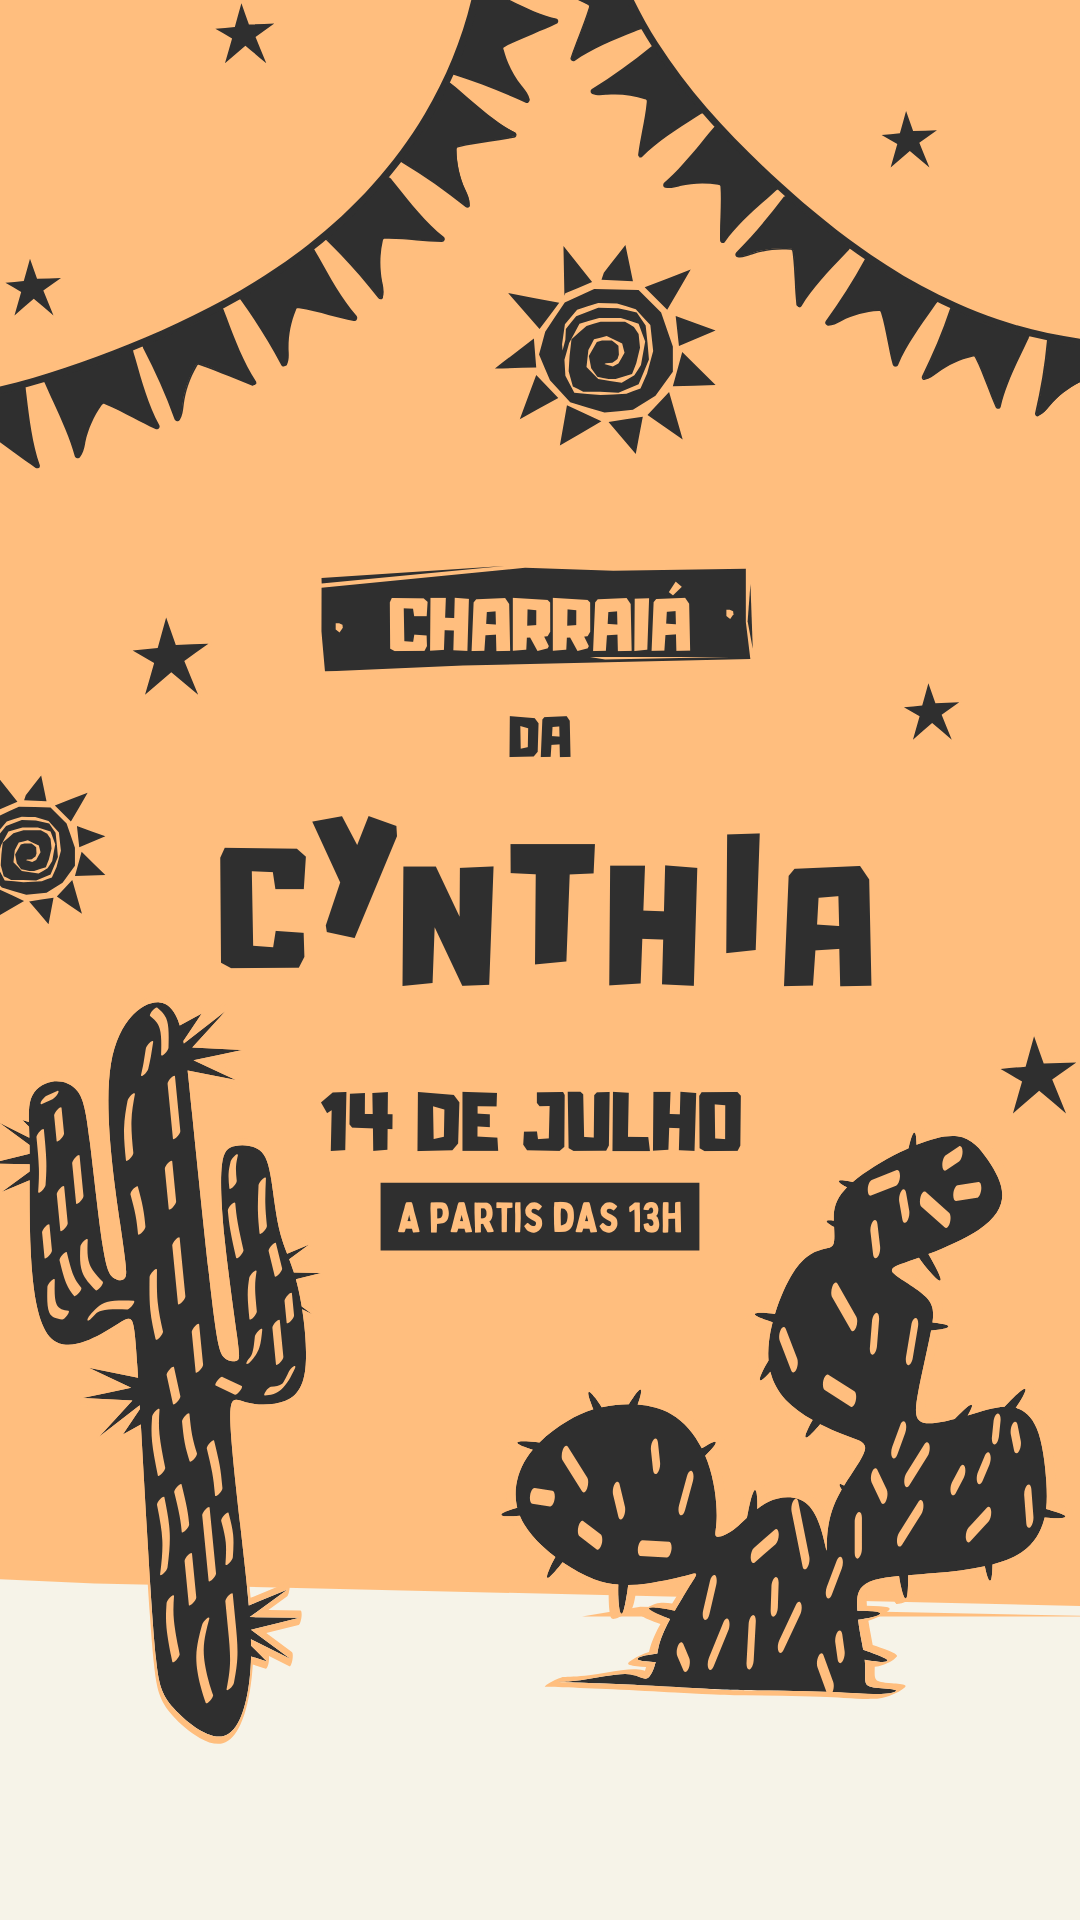
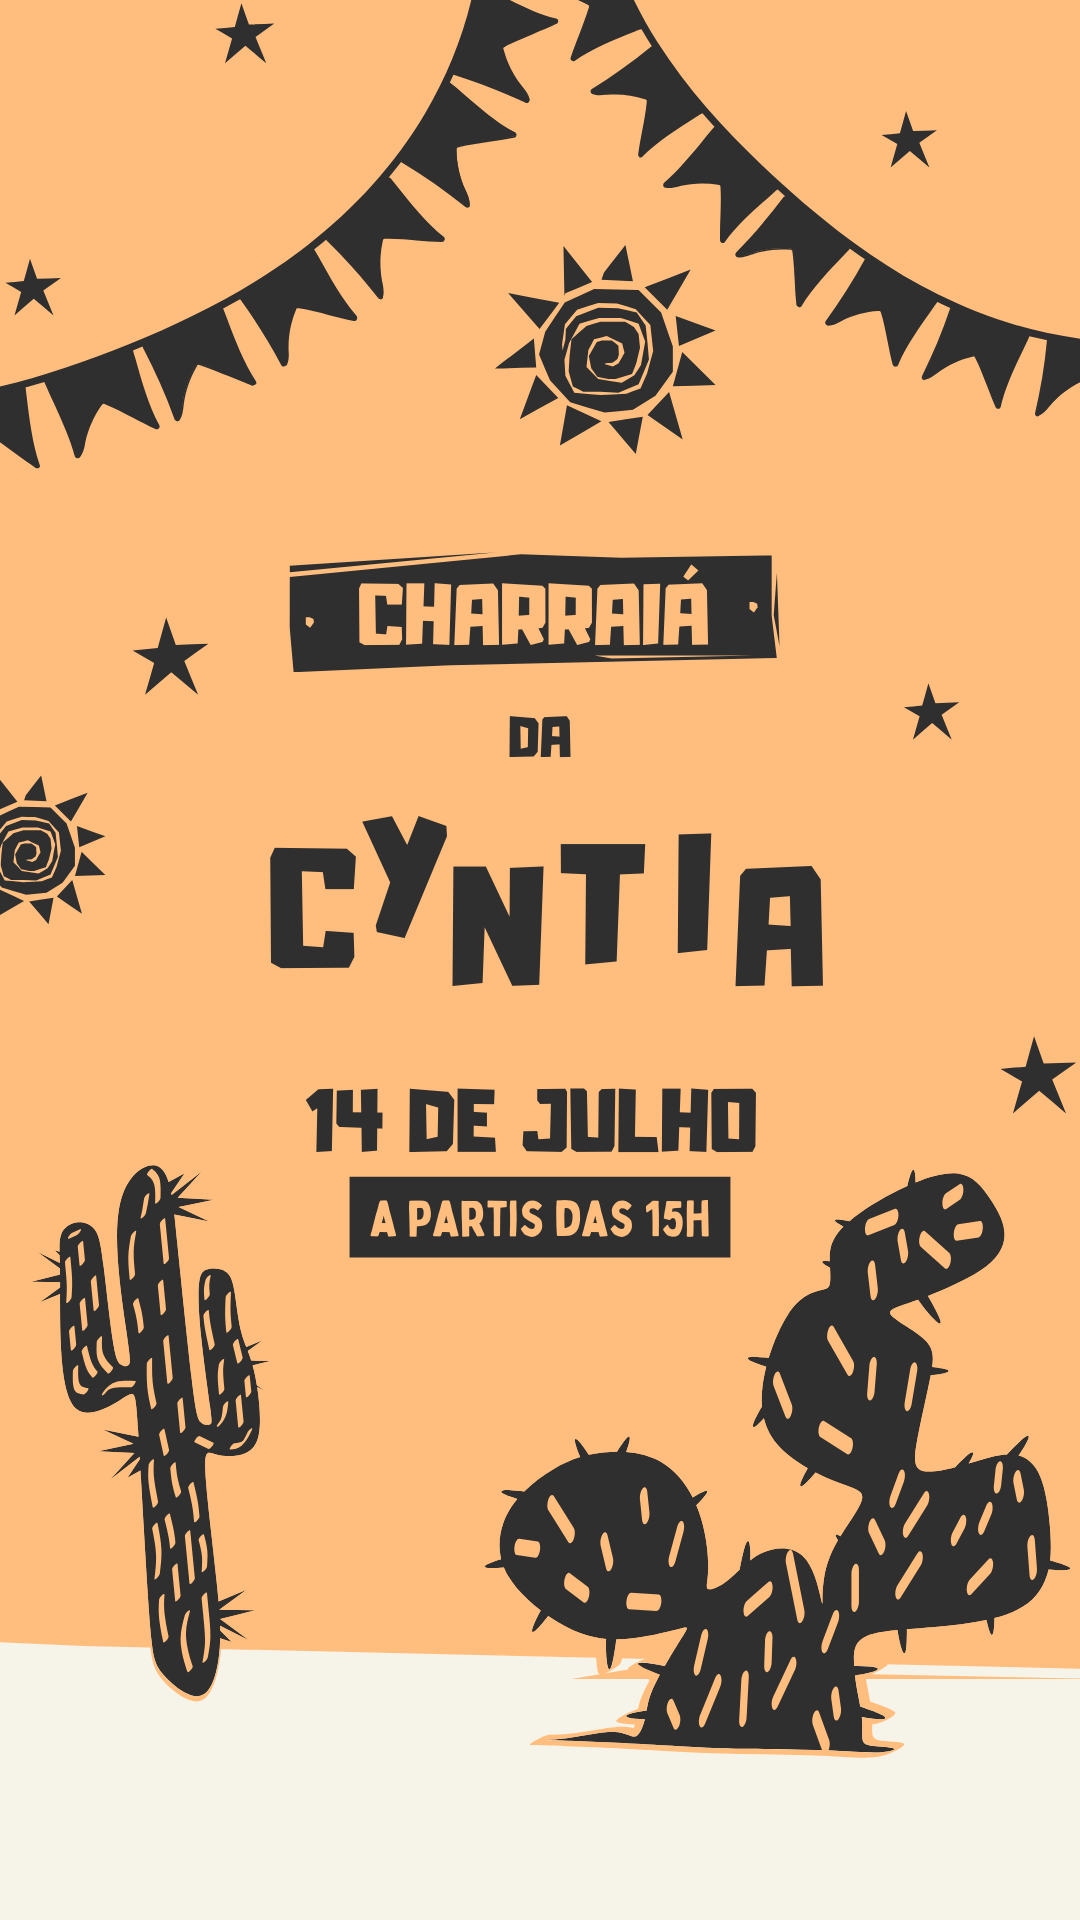
ajustes

diff --git a/index.html b/index.html
@@ -34,7 +34,7 @@
 
             Mal podemos esperar para compartilhar este momento único com todos vocês! <br><br>
 
-            Com amor, Cynthia e Murilo
+            Com amor, Cyntia e Murilo
         </p>
     </div>
 
@@ -44,7 +44,8 @@
 
     <div class="containercard">
         <h2>Presentes</h2>
-        <p class="intro">Ao escolher o item peço por gentileza que informe o mesmo na mensagem de confirmação Ex: O item escolhido foi: Tábua de corte</p>
+        <p class="intro">Ao escolher o item peço por gentileza que informe o mesmo na mensagem de confirmação Ex: O item
+            escolhido foi: Tábua de corte</p>
         <div class="card-list">
 
 
@@ -92,16 +93,6 @@
                 <img src="IMG/WhatsApp Image 2024-05-10 at 19.28.56.jpeg" alt="Imagem 2" class="card-img">
                 <div class="card-content">
                     <h2 class="card-title">Utensílios de silicone</h2>
-                    <p class="card-description"></p>
-                    <a
-                        href="https://api.whatsapp.com/send?phone=5571986284086&text=Ol%C3%A1,%20Obrigada%20pelo%20convite%20para%20participar%20desse%20momento%20t%C3%A3o%20especial%20na%20vida%20de%20voc%C3%AAs!%20Estarei%20presente,%20e%20o%20item%20escolhido%20por%20mim%20foi:%20">
-                        <button class="card-button">PRESENTEAR</button></a>
-                </div>
-            </div>
-            <div class="card">
-                <img src="IMG/WhatsApp Image 2024-05-10 at 19.29.11.jpeg" alt="Imagem 2" class="card-img">
-                <div class="card-content">
-                    <h2 class="card-title">Conjunto de facas tramontina</h2>
                     <p class="card-description"></p>
                     <a
                         href="https://api.whatsapp.com/send?phone=5571986284086&text=Ol%C3%A1,%20Obrigada%20pelo%20convite%20para%20participar%20desse%20momento%20t%C3%A3o%20especial%20na%20vida%20de%20voc%C3%AAs!%20Estarei%20presente,%20e%20o%20item%20escolhido%20por%20mim%20foi:%20">
@@ -511,8 +502,8 @@
             <div class="card">
                 <img src="IMG/lençol elastico.jpeg" alt="Imagem 2" class="card-img">
                 <div class="card-content">
-                    <h2 class="card-title">02 lençóis de elástico casal</h2>
-                    <p class="card-description"></p>
+                    <h2 class="card-title">02 lençóis de algodão com elástico</h2>
+                    <p class="card-description">Casal. *Verificar paleta nas indicações.</p>
                     <a
                         href="https://api.whatsapp.com/send?phone=5571986284086&text=Ol%C3%A1,%20Obrigada%20pelo%20convite%20para%20participar%20desse%20momento%20t%C3%A3o%20especial%20na%20vida%20de%20voc%C3%AAs!%20Estarei%20presente,%20e%20o%20item%20escolhido%20por%20mim%20foi:%20">
                         <button class="card-button">PRESENTEAR</button></a>
@@ -521,8 +512,8 @@
             <div class="card">
                 <img src="IMG/lençol elastico.jpeg" alt="Imagem 2" class="card-img">
                 <div class="card-content">
-                    <h2 class="card-title">02 lençóis de elástico casal</h2>
-                    <p class="card-description"></p>
+                    <h2 class="card-title">02 lençóis de algodão com elástico</h2>
+                    <p class="card-description">Casal. *Verificar paleta nas indicações.</p>
                     <a
                         href="https://api.whatsapp.com/send?phone=5571986284086&text=Ol%C3%A1,%20Obrigada%20pelo%20convite%20para%20participar%20desse%20momento%20t%C3%A3o%20especial%20na%20vida%20de%20voc%C3%AAs!%20Estarei%20presente,%20e%20o%20item%20escolhido%20por%20mim%20foi:%20">
                         <button class="card-button">PRESENTEAR</button></a>
@@ -531,8 +522,8 @@
             <div class="card">
                 <img src="IMG/lençol elastico.jpeg" alt="Imagem 2" class="card-img">
                 <div class="card-content">
-                    <h2 class="card-title">02 lençóis de elástico solteiro</h2>
-                    <p class="card-description"></p>
+                    <h2 class="card-title">02 lençóis de algodão com elástico</h2>
+                    <p class="card-description">Casal. *Verificar paleta nas indicações.</p>
                     <a
                         href="https://api.whatsapp.com/send?phone=5571986284086&text=Ol%C3%A1,%20Obrigada%20pelo%20convite%20para%20participar%20desse%20momento%20t%C3%A3o%20especial%20na%20vida%20de%20voc%C3%AAs!%20Estarei%20presente,%20e%20o%20item%20escolhido%20por%20mim%20foi:%20">
                         <button class="card-button">PRESENTEAR</button></a>
@@ -541,7 +532,37 @@
             <div class="card">
                 <img src="IMG/lençol elastico.jpeg" alt="Imagem 2" class="card-img">
                 <div class="card-content">
-                    <h2 class="card-title">02 lençóis de elástico solteiro</h2>
+                    <h2 class="card-title">02 lençóis de algodão com elástico</h2>
+                    <p class="card-description">Solteiro. *Verificar paleta nas indicações.</p>
+                    <a
+                        href="https://api.whatsapp.com/send?phone=5571986284086&text=Ol%C3%A1,%20Obrigada%20pelo%20convite%20para%20participar%20desse%20momento%20t%C3%A3o%20especial%20na%20vida%20de%20voc%C3%AAs!%20Estarei%20presente,%20e%20o%20item%20escolhido%20por%20mim%20foi:%20">
+                        <button class="card-button">PRESENTEAR</button></a>
+                </div>
+            </div>
+            <div class="card">
+                <img src="IMG/lençol elastico.jpeg" alt="Imagem 2" class="card-img">
+                <div class="card-content">
+                    <h2 class="card-title">02 lençóis de algodão com elástico</h2>
+                    <p class="card-description">Solteiro. *Verificar paleta nas indicações.</p>
+                    <a
+                        href="https://api.whatsapp.com/send?phone=5571986284086&text=Ol%C3%A1,%20Obrigada%20pelo%20convite%20para%20participar%20desse%20momento%20t%C3%A3o%20especial%20na%20vida%20de%20voc%C3%AAs!%20Estarei%20presente,%20e%20o%20item%20escolhido%20por%20mim%20foi:%20">
+                        <button class="card-button">PRESENTEAR</button></a>
+                </div>
+            </div>
+            <div class="card">
+                <img src="IMG/lençol elastico.jpeg" alt="Imagem 2" class="card-img">
+                <div class="card-content">
+                    <h2 class="card-title">02 lençóis de algodão com elástico</h2>
+                    <p class="card-description">Solteiro. *Verificar paleta nas indicações.</p>
+                    <a
+                        href="https://api.whatsapp.com/send?phone=5571986284086&text=Ol%C3%A1,%20Obrigada%20pelo%20convite%20para%20participar%20desse%20momento%20t%C3%A3o%20especial%20na%20vida%20de%20voc%C3%AAs!%20Estarei%20presente,%20e%20o%20item%20escolhido%20por%20mim%20foi:%20">
+                        <button class="card-button">PRESENTEAR</button></a>
+                </div>
+            </div>
+            <div class="card">
+                <img src="IMG/fronha.jpeg" alt="Imagem 2" class="card-img">
+                <div class="card-content">
+                    <h2 class="card-title">05 fronhas de algodão avulsas</h2>
                     <p class="card-description"></p>
                     <a
                         href="https://api.whatsapp.com/send?phone=5571986284086&text=Ol%C3%A1,%20Obrigada%20pelo%20convite%20para%20participar%20desse%20momento%20t%C3%A3o%20especial%20na%20vida%20de%20voc%C3%AAs!%20Estarei%20presente,%20e%20o%20item%20escolhido%20por%20mim%20foi:%20">
@@ -551,17 +572,7 @@
             <div class="card">
                 <img src="IMG/fronha.jpeg" alt="Imagem 2" class="card-img">
                 <div class="card-content">
-                    <h2 class="card-title">05 fronhas avulsas</h2>
-                    <p class="card-description"></p>
-                    <a
-                        href="https://api.whatsapp.com/send?phone=5571986284086&text=Ol%C3%A1,%20Obrigada%20pelo%20convite%20para%20participar%20desse%20momento%20t%C3%A3o%20especial%20na%20vida%20de%20voc%C3%AAs!%20Estarei%20presente,%20e%20o%20item%20escolhido%20por%20mim%20foi:%20">
-                        <button class="card-button">PRESENTEAR</button></a>
-                </div>
-            </div>
-            <div class="card">
-                <img src="IMG/fronha.jpeg" alt="Imagem 2" class="card-img">
-                <div class="card-content">
-                    <h2 class="card-title">05 fronhas avulsas</h2>
+                    <h2 class="card-title">05 fronhas de algodão avulsas</h2>
                     <p class="card-description"></p>
                     <a
                         href="https://api.whatsapp.com/send?phone=5571986284086&text=Ol%C3%A1,%20Obrigada%20pelo%20convite%20para%20participar%20desse%20momento%20t%C3%A3o%20especial%20na%20vida%20de%20voc%C3%AAs!%20Estarei%20presente,%20e%20o%20item%20escolhido%20por%20mim%20foi:%20">
@@ -583,6 +594,86 @@
                 <div class="card-content">
                     <h2 class="card-title">02 mantas microfibra</h2>
                     <p class="card-description">Sem estampa</p>
+                    <a
+                        href="https://api.whatsapp.com/send?phone=5571986284086&text=Ol%C3%A1,%20Obrigada%20pelo%20convite%20para%20participar%20desse%20momento%20t%C3%A3o%20especial%20na%20vida%20de%20voc%C3%AAs!%20Estarei%20presente,%20e%20o%20item%20escolhido%20por%20mim%20foi:%20">
+                        <button class="card-button">PRESENTEAR</button></a>
+                </div>
+            </div>
+            <div class="card">
+                <img src="IMG/pix presente.png" alt="Imagem 2" class="card-img">
+                <div class="card-content">
+                    <h2 class="card-title">Pix presente <br>R$ 100,00</h2>
+                    <p class="card-description">Clique em presentear e peça a minha chave pix.</p>
+                    <a
+                        href="https://api.whatsapp.com/send?phone=5571986284086&text=Ol%C3%A1,%20Obrigada%20pelo%20convite%20para%20participar%20desse%20momento%20t%C3%A3o%20especial%20na%20vida%20de%20voc%C3%AAs!%20Estarei%20presente,%20e%20o%20item%20escolhido%20por%20mim%20foi:%20">
+                        <button class="card-button">PRESENTEAR</button></a>
+                </div>
+            </div>
+            <div class="card">
+                <img src="IMG/pix presente.png" alt="Imagem 2" class="card-img">
+                <div class="card-content">
+                    <h2 class="card-title">Pix presente <br>R$ 100,00</h2>
+                    <p class="card-description">Clique em presentear e peça a minha chave pix.</p>
+                    <a
+                        href="https://api.whatsapp.com/send?phone=5571986284086&text=Ol%C3%A1,%20Obrigada%20pelo%20convite%20para%20participar%20desse%20momento%20t%C3%A3o%20especial%20na%20vida%20de%20voc%C3%AAs!%20Estarei%20presente,%20e%20o%20item%20escolhido%20por%20mim%20foi:%20">
+                        <button class="card-button">PRESENTEAR</button></a>
+                </div>
+            </div>
+            <div class="card">
+                <img src="IMG/pix presente.png" alt="Imagem 2" class="card-img">
+                <div class="card-content">
+                    <h2 class="card-title">Pix presente <br>R$ 100,00</h2>
+                    <p class="card-description">Clique em presentear e peça a minha chave pix.</p>
+                    <a
+                        href="https://api.whatsapp.com/send?phone=5571986284086&text=Ol%C3%A1,%20Obrigada%20pelo%20convite%20para%20participar%20desse%20momento%20t%C3%A3o%20especial%20na%20vida%20de%20voc%C3%AAs!%20Estarei%20presente,%20e%20o%20item%20escolhido%20por%20mim%20foi:%20">
+                        <button class="card-button">PRESENTEAR</button></a>
+                </div>
+            </div>
+            <div class="card">
+                <img src="IMG/pix presente.png" alt="Imagem 2" class="card-img">
+                <div class="card-content">
+                    <h2 class="card-title">Pix presente <br>R$ 100,00</h2>
+                    <p class="card-description">Clique em presentear e peça a minha chave pix.</p>
+                    <a
+                        href="https://api.whatsapp.com/send?phone=5571986284086&text=Ol%C3%A1,%20Obrigada%20pelo%20convite%20para%20participar%20desse%20momento%20t%C3%A3o%20especial%20na%20vida%20de%20voc%C3%AAs!%20Estarei%20presente,%20e%20o%20item%20escolhido%20por%20mim%20foi:%20">
+                        <button class="card-button">PRESENTEAR</button></a>
+                </div>
+            </div>
+            <div class="card">
+                <img src="IMG/pix presente.png" alt="Imagem 2" class="card-img">
+                <div class="card-content">
+                    <h2 class="card-title">Pix presente <br>R$ 100,00</h2>
+                    <p class="card-description">Clique em presentear e peça a minha chave pix.</p>
+                    <a
+                        href="https://api.whatsapp.com/send?phone=5571986284086&text=Ol%C3%A1,%20Obrigada%20pelo%20convite%20para%20participar%20desse%20momento%20t%C3%A3o%20especial%20na%20vida%20de%20voc%C3%AAs!%20Estarei%20presente,%20e%20o%20item%20escolhido%20por%20mim%20foi:%20">
+                        <button class="card-button">PRESENTEAR</button></a>
+                </div>
+            </div>
+            <div class="card">
+                <img src="IMG/pix presente.png" alt="Imagem 2" class="card-img">
+                <div class="card-content">
+                    <h2 class="card-title">Pix presente <br>R$ 100,00</h2>
+                    <p class="card-description">Clique em presentear e peça a minha chave pix.</p>
+                    <a
+                        href="https://api.whatsapp.com/send?phone=5571986284086&text=Ol%C3%A1,%20Obrigada%20pelo%20convite%20para%20participar%20desse%20momento%20t%C3%A3o%20especial%20na%20vida%20de%20voc%C3%AAs!%20Estarei%20presente,%20e%20o%20item%20escolhido%20por%20mim%20foi:%20">
+                        <button class="card-button">PRESENTEAR</button></a>
+                </div>
+            </div>
+            <div class="card">
+                <img src="IMG/pix presente.png" alt="Imagem 2" class="card-img">
+                <div class="card-content">
+                    <h2 class="card-title">Pix presente <br>R$ 100,00</h2>
+                    <p class="card-description">Clique em presentear e peça a minha chave pix.</p>
+                    <a
+                        href="https://api.whatsapp.com/send?phone=5571986284086&text=Ol%C3%A1,%20Obrigada%20pelo%20convite%20para%20participar%20desse%20momento%20t%C3%A3o%20especial%20na%20vida%20de%20voc%C3%AAs!%20Estarei%20presente,%20e%20o%20item%20escolhido%20por%20mim%20foi:%20">
+                        <button class="card-button">PRESENTEAR</button></a>
+                </div>
+            </div>
+            <div class="card">
+                <img src="IMG/pix presente.png" alt="Imagem 2" class="card-img">
+                <div class="card-content">
+                    <h2 class="card-title">Pix presente <br>R$ 100,00</h2>
+                    <p class="card-description">Clique em presentear e peça a minha chave pix.</p>
                     <a
                         href="https://api.whatsapp.com/send?phone=5571986284086&text=Ol%C3%A1,%20Obrigada%20pelo%20convite%20para%20participar%20desse%20momento%20t%C3%A3o%20especial%20na%20vida%20de%20voc%C3%AAs!%20Estarei%20presente,%20e%20o%20item%20escolhido%20por%20mim%20foi:%20">
                         <button class="card-button">PRESENTEAR</button></a>
@@ -592,18 +683,40 @@
         </div>
     </div>
 
+    <div class="dicas">
+        <h2>Indicações</h2>
+        <p>Aqui algumas indicaçõe para te ajudar na escolha do presente.</p>
+        <img src="IMG/paleta lencois.jpeg" alt="">
+        <div class="dicas-content">
+            <p>Paleta para lençóis e manta de casal.</p>
+        </div>
+        <img src="IMG/paleta lecois solteiro.jpeg" alt="">
+        <div class="dicas-content">
+            <p>Paleta para lençóis e manta de solteiro.</p>
+        </div>
+        <img src="IMG/madeia pinus e bambu.jpeg" alt="">
+        <div class="dicas-content">
+            <p>Itens de/com madeira, preferência pinus e bambu.</p>
+        </div>
+        <img src="IMG/eletrodomestico branco.jpeg" alt="">
+        <div class="dicas-content">
+            <p>Eletrodométicos, preferência branco.</p>
+        </div>
+
+    </div>
+
     <div class="maps">
         <h2>Local</h2>
         <iframe
-            src="https://www.google.com/maps/embed?pb=!1m18!1m12!1m3!1d1478.2797985755021!2d-38.5209708100619!3d-12.990639978140765!2m3!1f0!2f0!3f0!3m2!1i1024!2i768!4f13.1!3m3!1m2!1s0x71604857b8f1cd9%3A0xb937ef6552a78e93!2sCapela%20Sagrada%20Fam%C3%ADlia%20Dorot%C3%A9ias!5e0!3m2!1spt-BR!2sbr!4v1713848328297!5m2!1spt-BR!2sbr"
+            src="https://www.google.com/maps/embed?pb=!1m18!1m12!1m3!1d1052.1555288879563!2d-38.45020788172916!3d-12.94771175484868!2m3!1f0!2f0!3f0!3m2!1i1024!2i768!4f13.1!3m3!1m2!1s0x7161a8f13e3d763%3A0x2ba78f46f7aab762!2sR.%20Cristiane%20-%20Tancredo%20Neves%2C%20Salvador%20-%20BA%2C%2040301-110!5e0!3m2!1spt-BR!2sbr!4v1717018426570!5m2!1spt-BR!2sbr"
             width="300" height="200" style="border:0;" allowfullscreen="" loading="lazy"
             referrerpolicy="no-referrer-when-downgrade"></iframe>
-        <p>Rua.... n00, Tancredo Neves.</p>
+        <p>Rua Cristiane, N312, Tancredo Neves. Salvador-BA</p>
     </div>
 
     <footer class="footer">
         <div class="container">
-            <p>&copy; 2024 Charraiá da Cynthia</p>
+            <p>&copy; 2024. Charraiá da Cyntia</p>
         </div>
     </footer>
 </body>

diff --git a/styles.css b/styles.css
@@ -1,15 +1,17 @@
-body{
+body {
     background-color: #F6F3E8;
 
 }
+
 .banner {
     text-align: center;
 }
 
 .banner-image {
     width: 100%;
-    max-width: 500px; /* Largura máxima do banner */
-    
+    max-width: 500px;
+    /* Largura máxima do banner */
+
 }
 
 .star {
@@ -27,9 +29,9 @@ h2 {
 }
 
 .intro {
-text-align: justify;
-padding: 40px 20px;
-font-family: 'Lucida Sans', 'Lucida Sans Regular', 'Lucida Grande', 'Lucida Sans Unicode';
+    text-align: justify;
+    padding: 40px 20px;
+    font-family: 'Lucida Sans', 'Lucida Sans Regular', 'Lucida Grande', 'Lucida Sans Unicode';
 }
 
 .container {
@@ -55,7 +57,7 @@ font-family: 'Lucida Sans', 'Lucida Sans Regular', 'Lucida Grande', 'Lucida Sans
     align-items: center;
 }
 
-.containercard{
+.containercard {
     max-width: 800px;
     margin: 0 auto;
     padding: 40px;
@@ -74,8 +76,10 @@ font-family: 'Lucida Sans', 'Lucida Sans Regular', 'Lucida Grande', 'Lucida Sans
     border: 1px solid #ffffff;
     padding: 10px;
     margin-bottom: 20px;
-    background-color: #202020; /* Definindo o background roxo */
-    color: rgb(247, 245, 245); /* Definindo a cor do texto para branco */
+    background-color: #202020;
+    /* Definindo o background roxo */
+    color: rgb(247, 245, 245);
+    /* Definindo a cor do texto para branco */
     font-family: 'Lucida Sans', 'Lucida Sans Regular', 'Lucida Grande', 'Lucida Sans Unicode', Geneva, Verdana, sans-serif;
 
     /* Responsividade para telas menores */
@@ -117,11 +121,52 @@ font-family: 'Lucida Sans', 'Lucida Sans Regular', 'Lucida Grande', 'Lucida Sans
     background-color: #b58a5e;
 }
 
+.dicas {
+    text-align: justify;
+    font-size: 14px;
+    padding: 40px 10px;
+    font-family: 'Lucida Sans', 'Lucida Sans Regular', 'Lucida Grande', 'Lucida Sans Unicode'; 
+}
 
+.dicas h2{
+    padding: 40 0 20PX 0px;
+    margin: 0;
+    font-size: 24px;
+    
+}
 
+.dicas p{
+    padding: 0 40px 20px 40px;
+}
+
+.dicas img {
+    width: 70%;
+    padding: 30px 0 0 50px;
+}
+
+.dicas-content {
+    text-align: center;
+}
 
 a {
     text-decoration: none;
+}
+
+.maps{
+    background-color:#ffffff ;
+}
+.maps h2 {
+    padding: 10px;
+    
+}
+
+.maps iframe {
+    padding: 40px;
+}
+
+.maps P{
+    font-size: 14PX;
+    text-align: center;
 }
 
 /* Estilos para o rodapé */
@@ -131,7 +176,3 @@ a {
     text-align: center;
     width: 100%;
 }
-
-
-
-
